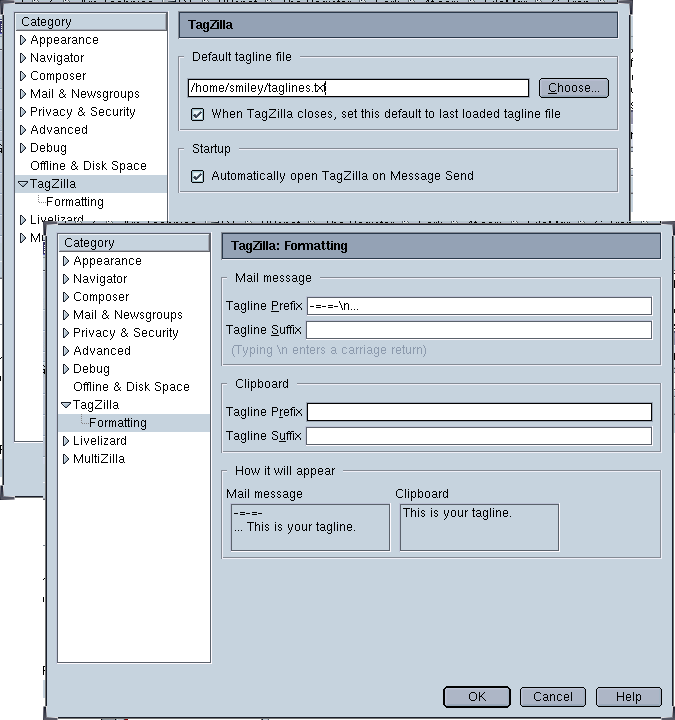
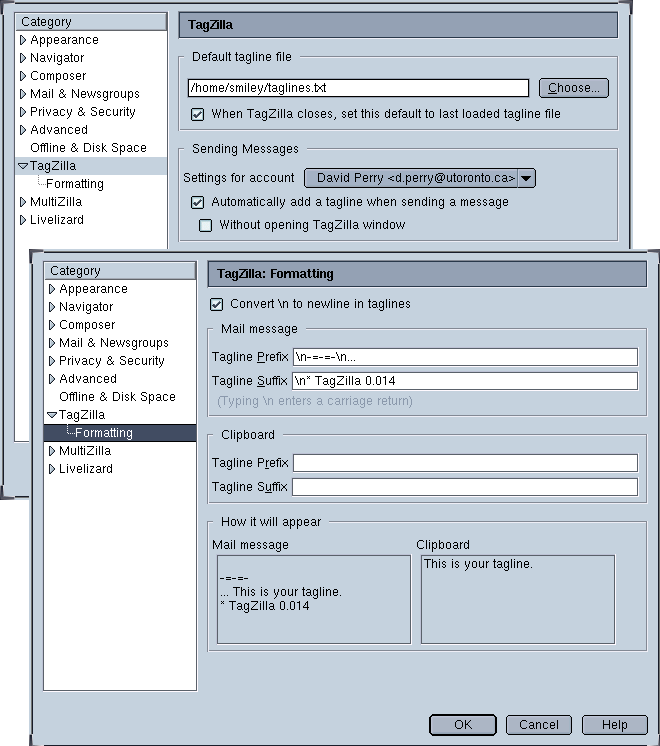
Release of 0.014 (and 0.011)

diff --git a/www/installation.html b/www/installation.html
@@ -15,11 +15,14 @@ function triggerURL(url) {
 <!-- MAIN CONTENT -->
 <h5 class="page-header">Installation</h5>
 <h3>Note to Linux users</h3>
-<p>You must be <b>root</b> to install TagZilla and other such Mozilla extensions
+<p>If you installed Mozilla as <em>root</em>, <b>you must be <em>root</em></b>
+to install TagZilla and other such Mozilla extensions
 at this time.  <i>(That probably goes for other multi-user OSes too, but I don't know
-which off the top of my head.)</i></p>
+which off the top of my head.)</i> If you installed Mozilla into your own home
+directory, or another directory for which you have write access, this won't
+be a problem for you.</p>
 
-<h3>TagZilla 0.008</h3>
+<h3>TagZilla 0.014</h3>
 <p>Don't let the version number scare you.  I've been dogfooding it since I started,
 so it should be pretty stable.  Of course, having said that, you're trying this at
 your own risk.</p>
@@ -28,19 +31,24 @@ your own risk.</p>
 <a href="http://www.gnu.org/licenses/licenses.html">GNU General Public License</a>.
 </p>
 
-<p style="font-size:large;">TagZilla <b>requires
+<p>TagZilla <b>requires
 <a href="http://jslib.mozdev.org">JSLib</a></b> in order
 to run.  Find its installation page
 <a href="http://jslib.mozdev.org/installation.html">here</a>.</p>
 
+<p style="font-size:large;font-weight:bold">Double-check your TagZilla preferences
+before you try to use it.  Your mail settings won't carry over from 0.011 or below.</p>
+
 <p><ul>
-<li><a href="#" onclick="triggerURL('http://downloads.mozdev.org/tagzilla/tagzilla-0.008.xpi');">XPI Install Link</a></li>
-<li><a href="http://downloads.mozdev.org/tagzilla/tagzilla-0.008.xpi">XPI Download Link</a> (Shift-click, or Right-click | Save As... to save)</li>
+<li><a href="#" onclick="triggerURL('http://downloads.us-east2.mozdev.org/tagzilla/tagzilla-0.014.xpi');">XPI Install Link</a></li>
+<li><a href="http://downloads.us-east2.mozdev.org/tagzilla/tagzilla-0.014.xpi">XPI Download Link</a> (Shift-click, or Right-click | Save As... to save)</li>
 </ul>
 </p>
 
 <h3>Older Versions</h3>
-<p><em>TagZilla 0.005</em> <a href="#" onclick="triggerURL('http://downloads.mozdev.org/tagzilla/tagzilla-0.008.xpi');">XPI Install Link</a> or <a href="http://downloads.mozdev.org/tagzilla/tagzilla-0.005.xpi">XPI Download Link</a></p>
+<p><em>TagZilla 0.011</em> <a href="#" onclick="triggerURL('http://downloads.us-east2.mozdev.org/tagzilla/tagzilla-0.011.xpi');">XPI Install Link</a> or <a href="http://downloads.us-east2.mozdev.org/tagzilla/tagzilla-0.011.xpi">XPI Download Link</a></p>
+<p><em>TagZilla 0.008</em> <a href="#" onclick="triggerURL('http://downloads.mozdev.org/tagzilla/tagzilla-0.008.xpi');">XPI Install Link</a> or <a href="http://downloads.mozdev.org/tagzilla/tagzilla-0.008.xpi">XPI Download Link</a></p>
+<p><em>TagZilla 0.005</em> <a href="#" onclick="triggerURL('http://downloads.mozdev.org/tagzilla/tagzilla-0.005.xpi');">XPI Install Link</a> or <a href="http://downloads.mozdev.org/tagzilla/tagzilla-0.005.xpi">XPI Download Link</a></p>
 <p><em>TagZilla 0.001</em> is singly licensed under the
 <a href="http://www.mozilla.org/MPL/">Mozilla Public License</a>.
 </p>

diff --git a/www/index.html b/www/index.html
@@ -4,6 +4,8 @@
 <div class="infoTab" id="whats-new">
 <h5 class="infoHeader">What's New</h5>
 <ul>
+<li><b>Sep 7</b> <a href="installation.html">TagZilla 0.014</a>? Already? Madness!</li>
+<li><b>Sep 6</b> As promised, <a href="installation.html">TagZilla 0.011</a> is here</li>
 <li><b>Sep 3</b> I'm back! A feature/bugfix/cleanup release is coming soon,
 to hold you over until I get better file management going</li>
 <li><b>Aug 13</b> <a href="installation.html">TagZilla 0.008</a> "stopgap" is here</li>
@@ -39,17 +41,16 @@ this page's taglines</li>
 <!-- ***************** INFO/NEWS *************** -->
 
 <!-- MAIN CONTENT -->
-<h3>TagZilla 0.008 released</h3>
+<h3>TagZilla 0.014 released</h3>
 <ul>
-<li>Should play nicer with EnigMail (EnigSend button only)</li>
-<li>Option to translate \n in a tagline to a newline</li>
-<b>Plus these features first introduced in 0.005:</b>
-<ul>
+<li>Overhauled the list code; should be <i>much</i> faster to load, save and sort</li>
+<li>Per-account settings, my second-most requested feature, is here</li>
+<b>Plus these features first found in TagZilla 0.011:</b>
 <li>Numerous back-end fixes and cleanup</li>
-<li>Added ability to <a href="screenshots/tz-steal.png">steal taglines</a></li>
-<li>Distinction made between Save and Save As</li>
-<li>Dually licensed under <a href="http://www.mozilla.org/MPL/">MPL</a> and
-<a href="http://www.gnu.org/licenses/licenses.html">GPL</a></li>
+<li>Some UI tweaks</li>
+<li>Improved EnigMail support (Send and EnigSend buttons only)</li>
+<li>The ability to insert a tagline into an email without opening the TagZilla window</li>
+<li>Actually checks if JSLib is installed, and won't run if it isn't</li>
 </ul>
 
 <h3>What is TagZilla?</h3>
@@ -78,7 +79,7 @@ some of the magic of taglines into the Internet era, however belated.</p>
 <p>I am <a href="mailto:d.perry@utoronto.ca">David Perry</a>. 
 I earned my Computer Engineering degree (and my
 <a href="http://ironring.ca">Iron Ring</a>) from the
-<a href="http://www.utoronto.ca">University of Toronto</a>.  I live in
+<a href="http://www.utoronto.ca">University of Toronto</a>.  ERTW.  I live in
 Ontario, Canada.</p>
 
 <p>TagZilla is my first time starting a Mozilla project, but it isn't my first

diff --git a/www/usage.html b/www/usage.html
@@ -91,9 +91,17 @@ when TagZilla starts up.  Set it to blank to be prompted each time.</li>
 <li><b>Set this default to the last loaded tagline file.</b> When TagZilla closes,
 whichever file is currently open will be used as the default tagline file
 for the next time TagZilla starts, unless you clear this checkbox.</li>
+</ul>
+<p>Starting with TagZilla 0.014, these next few settings can be set differently
+for each of your mail accounts:</p>
+<ul>
 <li><b>Automatically open TagZilla on Message Send.</b> Through the magic of overlays,
 TagZilla can be started automatically when you try to send a mail message.  To
 prevent this behaviour, clear this checkbox.</li>
+<li><b>...without opening TagZilla Window.</b> If you're feeling daring, and if you
+have TagZilla 0.011 or later... check both
+the last box and this one, and a random tagline will be tacked onto every message
+you send, without the inconvenience of actually having to choose one yourself.</li>
 </ul><p>
 <p>The Formatting pref panel lets you choose how your tagline will appear when you
 use it.  Type in one prefix and suffix to surround your tagline when it's inserted

diff --git a/www/screenshots.html b/www/screenshots.html
@@ -1,7 +1,7 @@
 <!-- MAIN CONTENT -->
 <h5 class="page-header">Screenshots</h5>
 
-<h3>Screenshots from TagZilla 0.001</h3>
+<h3>Screenshots from TagZilla</h3>
 <a href="screenshots/tz-sc1.png"><img src="screenshots/tz-sc1-thumb.png"
 width="127" height="108" align="left" valign="top"> Choosing a tagline</a>
 <br clear="left">
@@ -15,5 +15,9 @@ width="105" height="121" align="left" valign="top"> Invoking TagZilla in
 Composer</a> <br clear="left">
 
 <a href="screenshots/tzPref.png"><img src="screenshots/tzPref-thumb.png"
-width="169" height="180" align="left" valign="top"> TagZilla's Preference panels</a>
+width="264" height="298" align="left" valign="top"> TagZilla's Preference panels</a>
+<br clear="left">
+
+<a href="screenshots/tz-steal.png"><img src="screenshots/tz-steal-thumb.png"
+width="185" height="82" align="left" valign="top"> Stealing a tagline</a>
 <br clear="left">

diff --git a/www/source.html b/www/source.html
@@ -2,8 +2,9 @@
 <h5 class="page-header">Source Code</h5>
 
 <p>
-  The TagZilla source code is currently licensed under the
-<a href="http://www.mozilla.org/MPL/">Mozilla Public License</a>.
+  The TagZilla source code is currently dually licensed under the
+<a href="http://www.mozilla.org/MPL/">Mozilla Public License</a> and
+the <a href="http://www.gnu.org/licenses/licenses.html">GNU General Public License</a>.
 It can be accessed in any of the following ways:
 </p>
 
